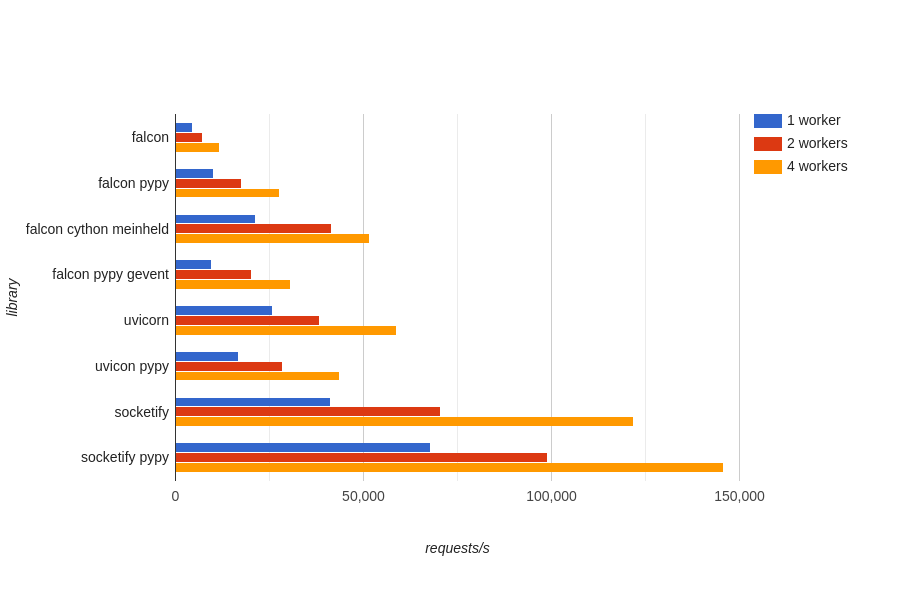
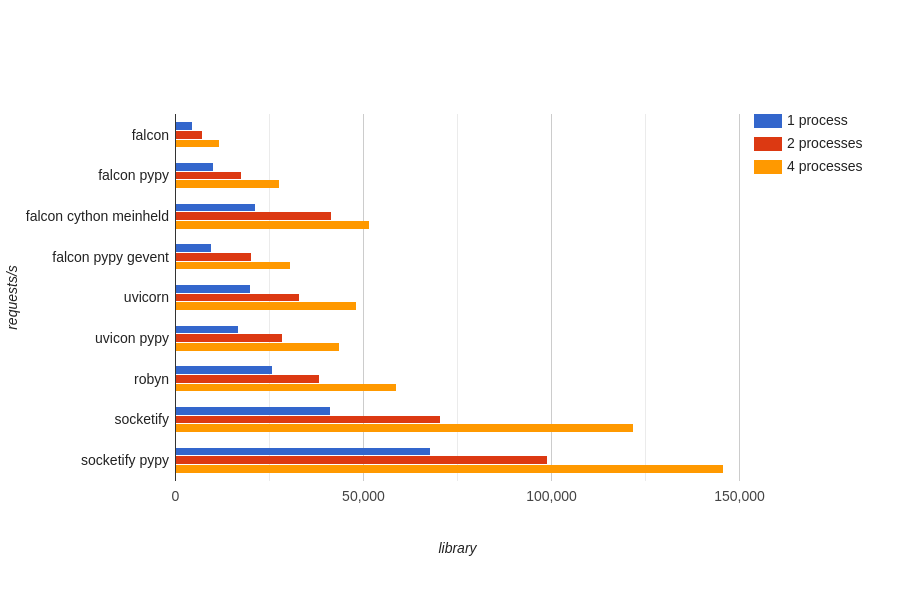
added robyn bench

diff --git a/bench/robyn_plaintext.py b/bench/robyn_plaintext.py
@@ -1,0 +1,12 @@
+from robyn import Robyn
+
+app = Robyn(__file__)
+
+@app.get("/")
+async def h(request):
+    return "Hello, world!"
+
+app.start(port=8000)
+
+# python3 ./robyn_plaintext.py --processes 4 --log-level CRITICAL
+# pypy3 did not compile

diff --git a/README.md b/README.md
@@ -50,7 +50,7 @@ HTTP requests per second (Linux x64)
 ![image](https://raw.githubusercontent.com/cirospaciari/socketify.py/main/misc/bench-bar-graph.svg)
 
 Runtime versions: PyPy3 7.3.9 and Python 3.10.7<br/>
-Framework versions: gunicorn 20.1.0 + uvicorn 0.19.0, socketify alpha, gunicorn 20.1.0 + falcon 3.1.0<br/>
+Framework versions: gunicorn 20.1.0 + uvicorn 0.19.0, socketify alpha, gunicorn 20.1.0 + falcon 3.1.0, robyn 0.18.3<br/>
 Tested with oha -c 40 -z 5s http://localhost:8000/ (1 run for warmup and 3 runs average for testing)<br/>
 Source code in [bench](https://github.com/cirospaciari/socketify.py/tree/main/bench)<br/>
 Machine OS: Debian GNU/Linux bookworm/sid x86_64 Kernel: 6.0.0-2-amd64 CPU: Intel i7-7700HQ (8) @ 3.800GHz Memory: 32066MiB 
